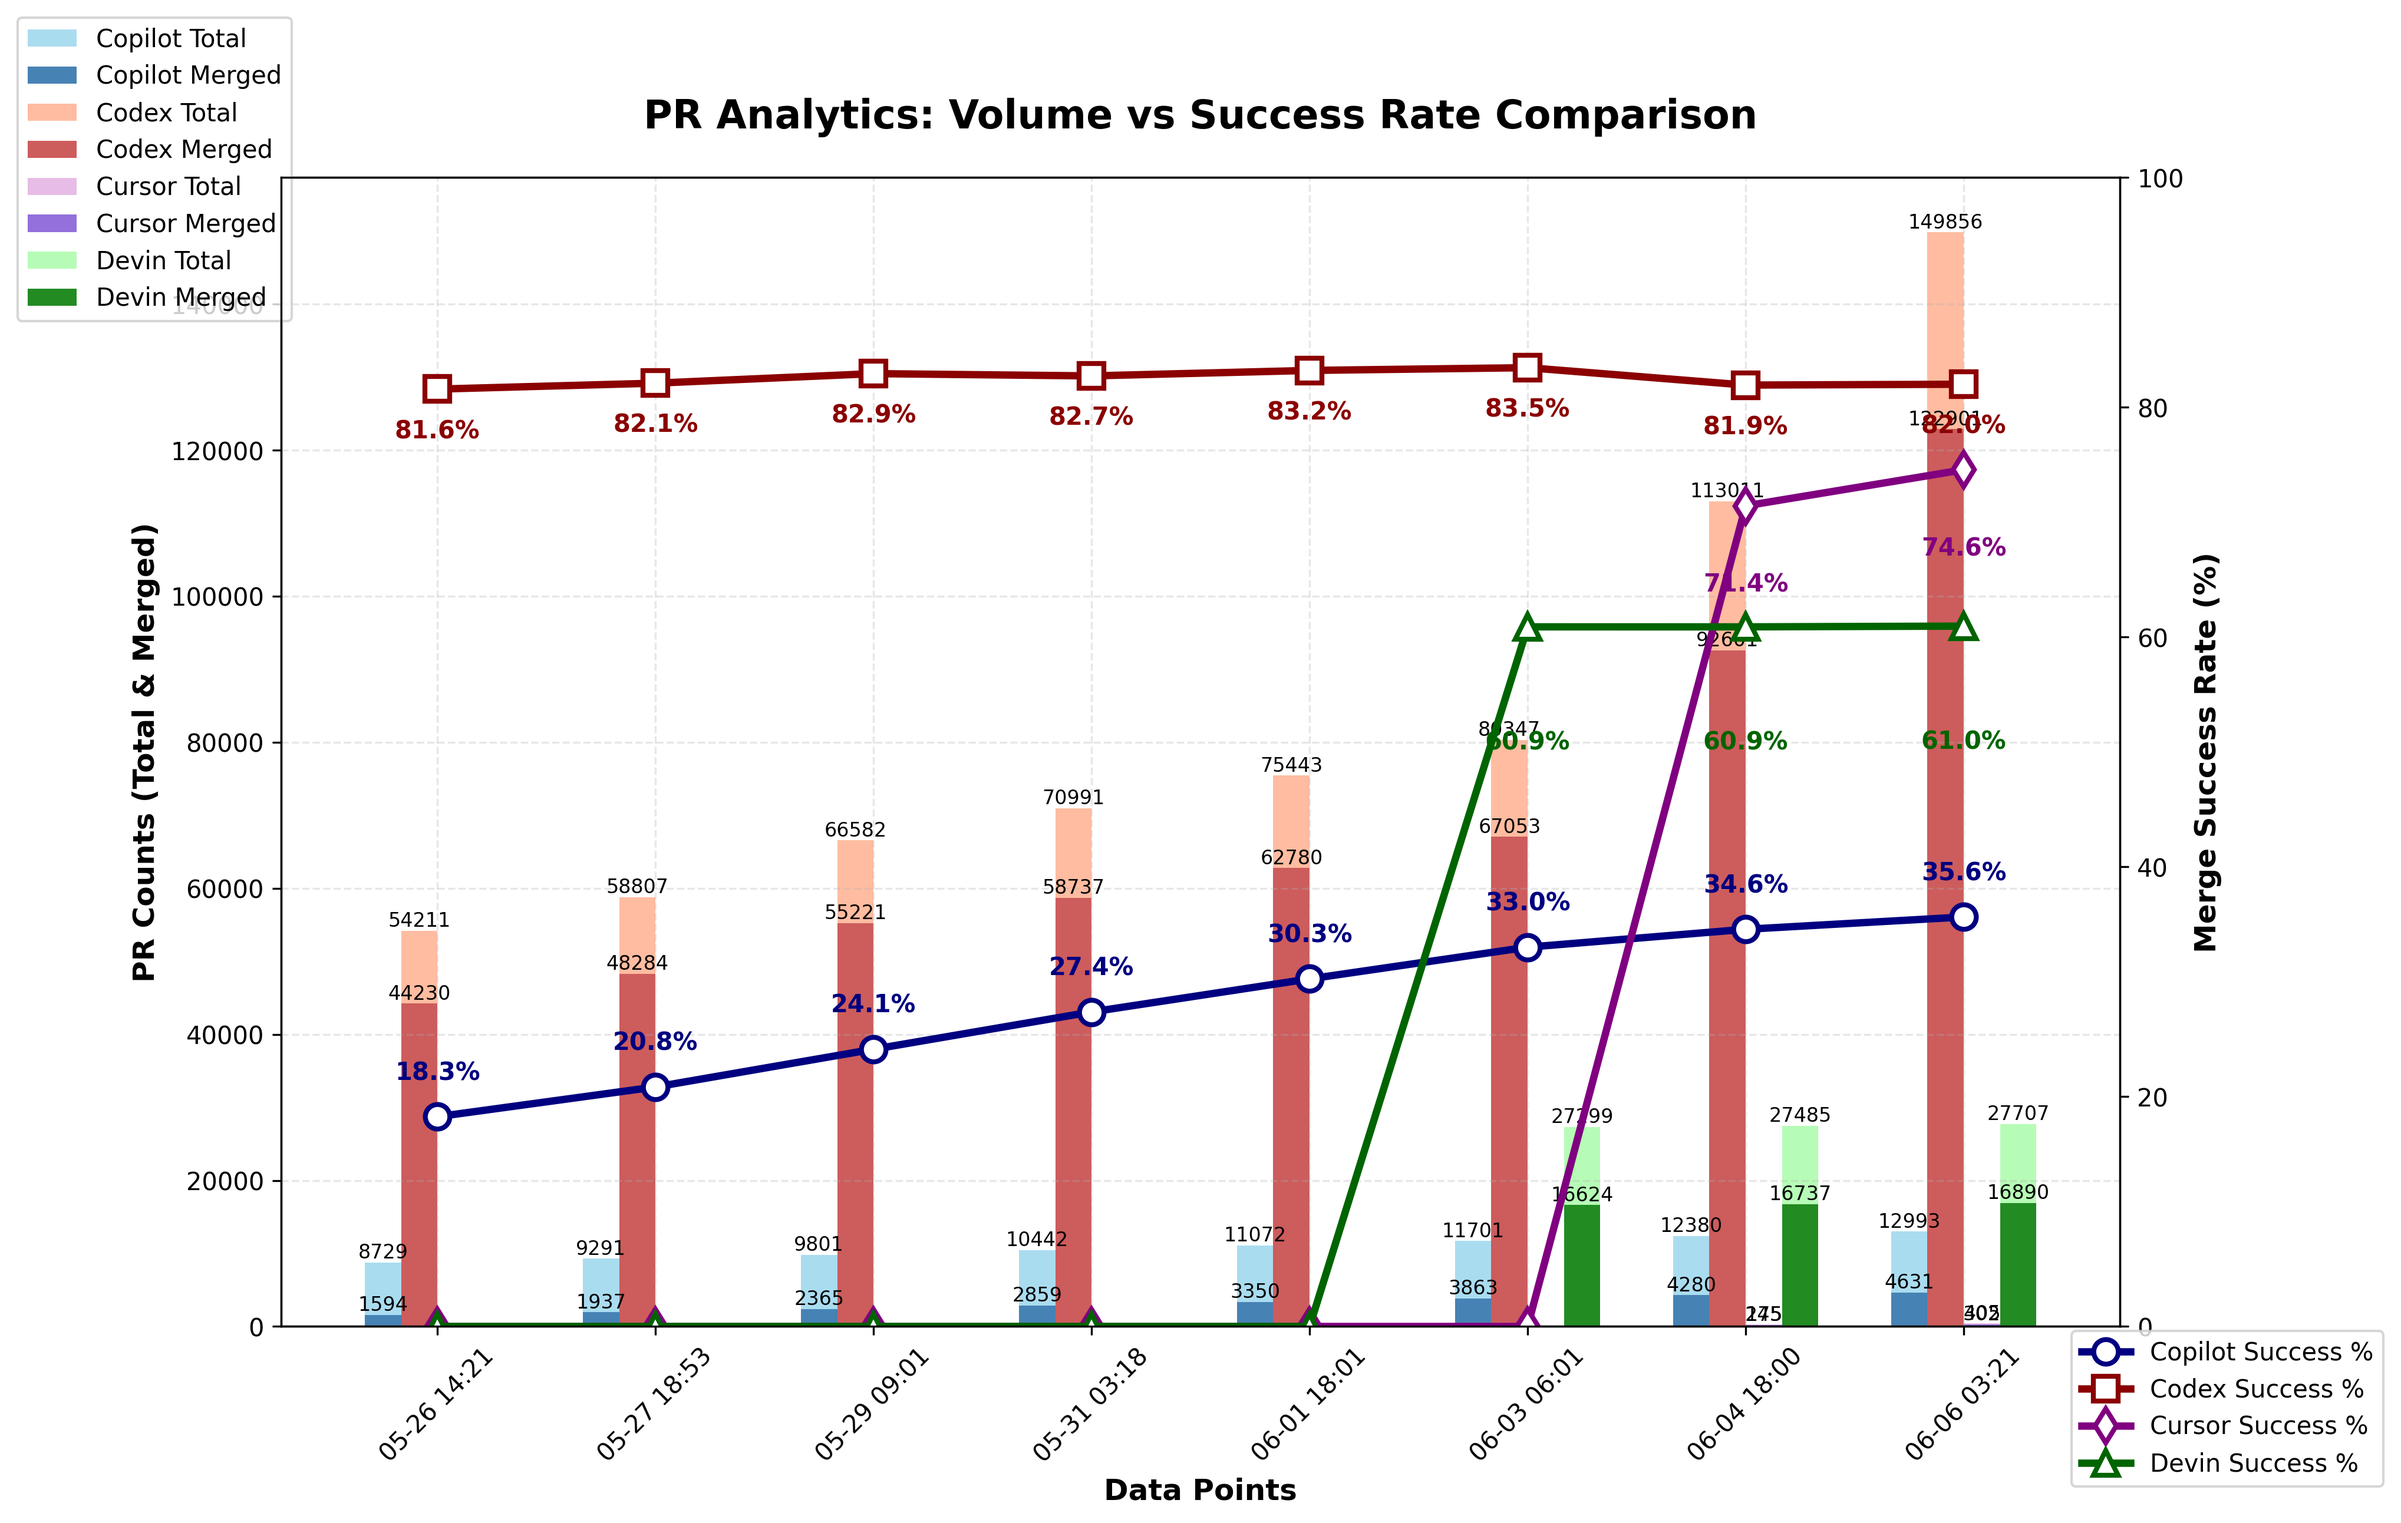
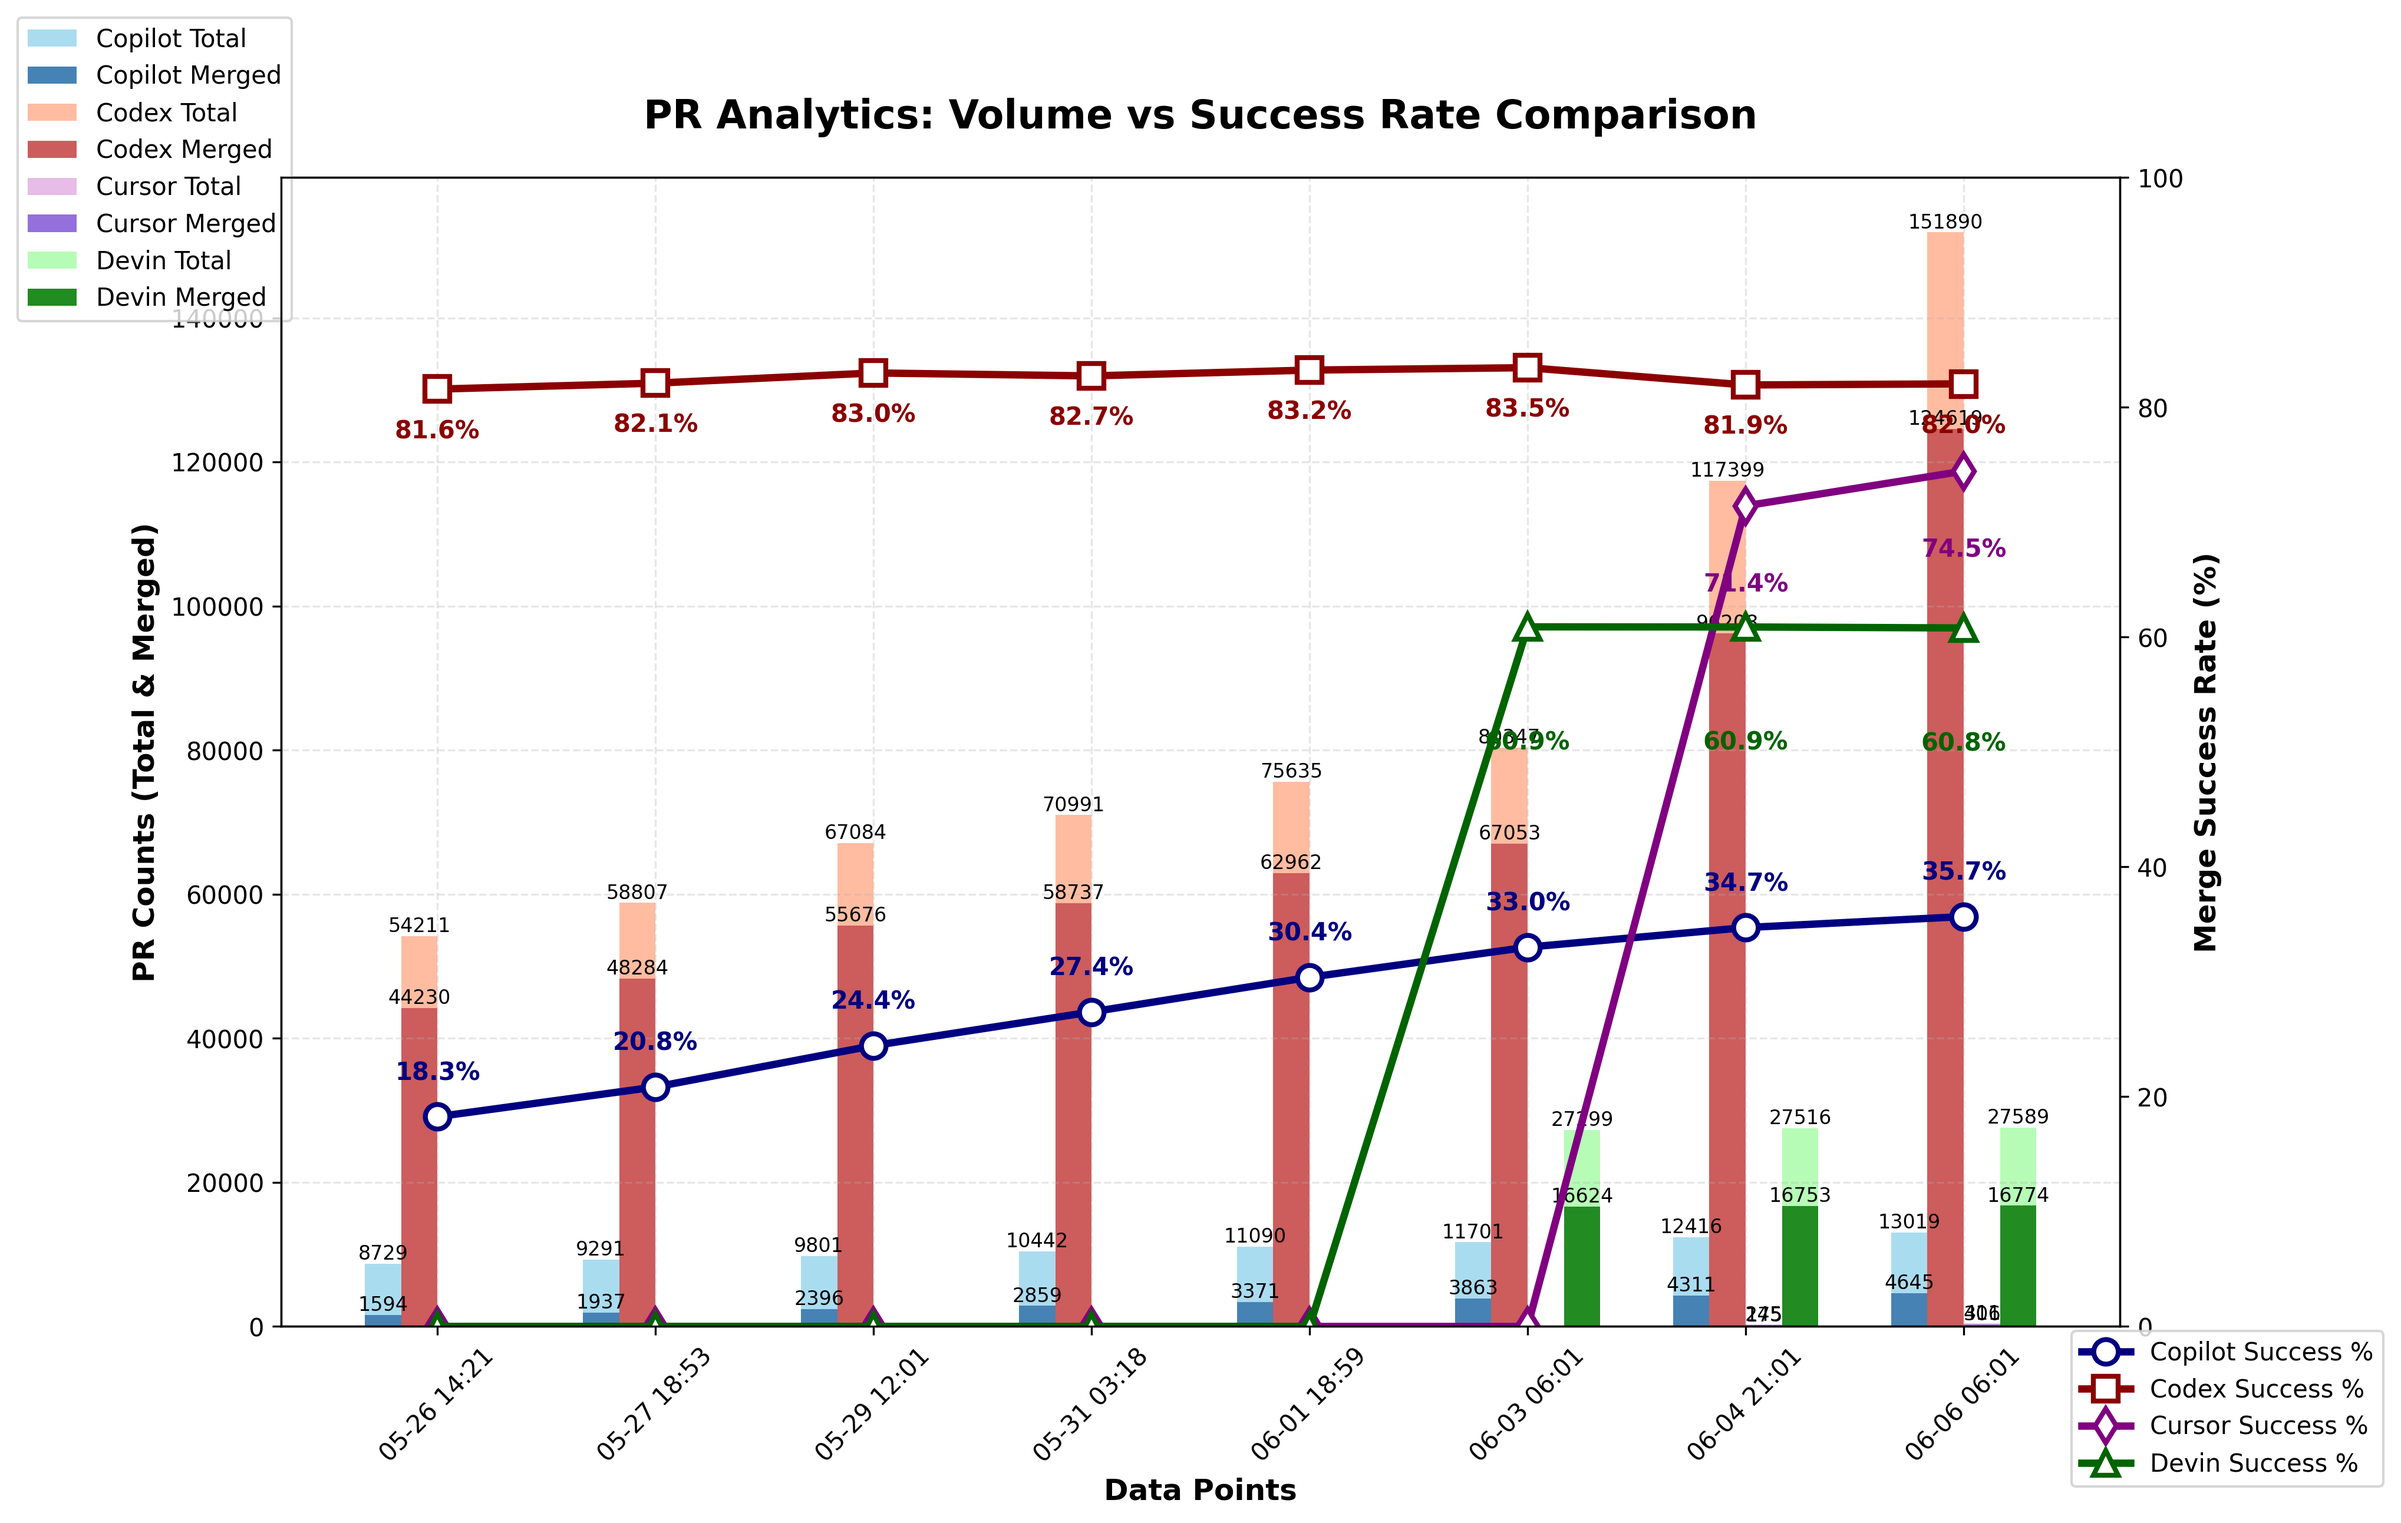
chore: update PR‑approval chart

diff --git a/docs/index.html b/docs/index.html
@@ -271,7 +271,7 @@
 
       <footer>
         <p>
-          Last updated: <span id="last-updated">June 06, 2025 03:21 UTC</span>
+          Last updated: <span id="last-updated">June 06, 2025 06:01 UTC</span>
         </p>
         <p>
           <a href="https://github.com/aavetis/ai-pr-watcher">View on GitHub</a>

diff --git a/README.md b/README.md
@@ -23,7 +23,7 @@ Explore the GitHub search queries used:
 
 | Project | Total PRs | Merged PRs | Merge Rate |
 | ------- | --------- | ---------- | ---------- |
-| Copilot | 12,993 | 4,631 | 35.64% |
-| Codex   | 149,856 | 122,901 | 82.01% |
-| Cursor  | 405 | 302 | 74.57% |
-| Devin   | 27,707 | 16,890 | 60.96% |
+| Copilot | 13,019 | 4,645 | 35.68% |
+| Codex   | 151,890 | 124,619 | 82.05% |
+| Cursor  | 411 | 306 | 74.45% |
+| Devin   | 27,589 | 16,774 | 60.80% |
